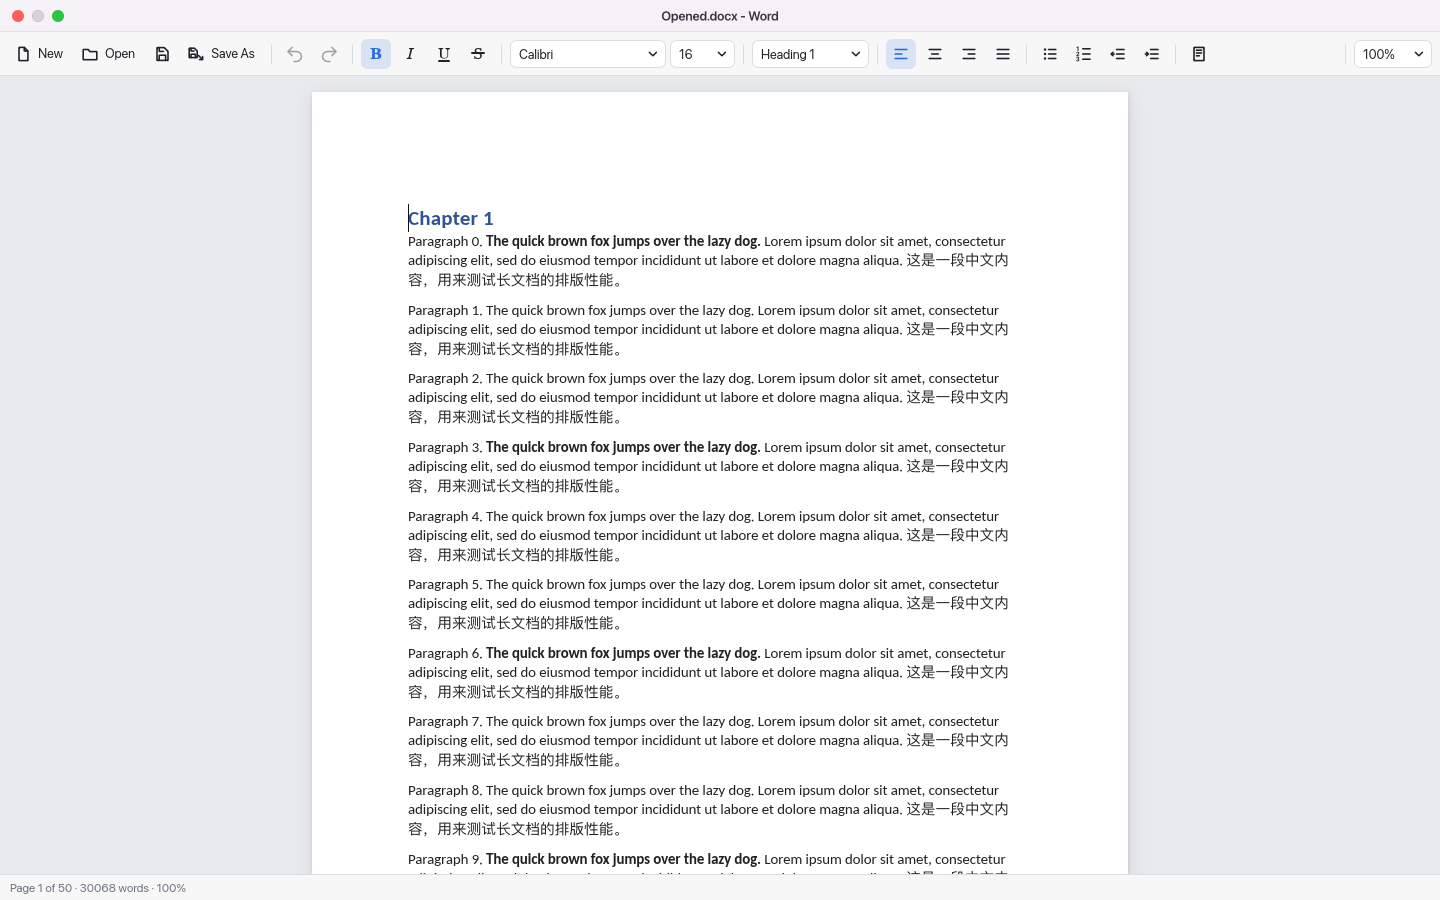
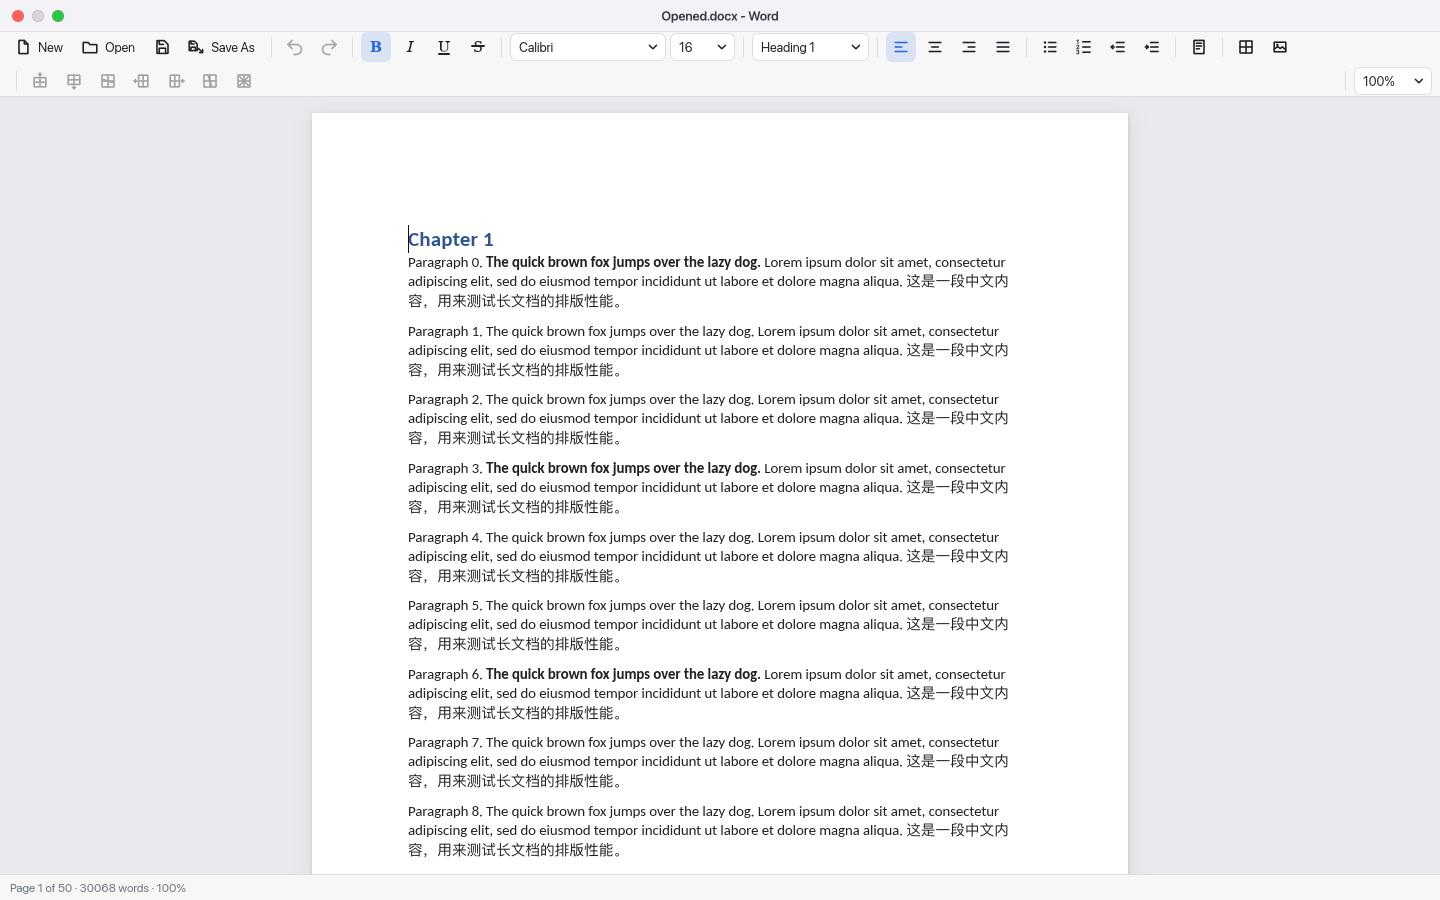
Check image insertion through acde act, and record the round 4 result.

diff --git a/docs/briefs/r4-features.md b/docs/briefs/r4-features.md
@@ -1,6 +1,11 @@
 # Round 4 brief: lists, page setup, tables, images
 
-Status: not started (2026-11-20). Branch `r4/features`.
+Status: all five units pass their checks on `r4/features` (2026-11-20). The kit branch `work/editing-kit-grok` gained
+`Section::set_landscape` and `Section::set_portrait`. Not verified: a saved file opened in Microsoft Word, a table
+inside a body content control (finding 7 held for that case only by reading), the save time of a row inserted in the
+middle of a table or of a deleted row or column (one package clone each), and the caret position right after an
+image is inserted (the image screenshot shows it at the start of the cell text). Finding 7 was wrong for a table
+nested in a cell. The toolbar wraps to two rows at 1440 px.
 
 ## Goal
 
